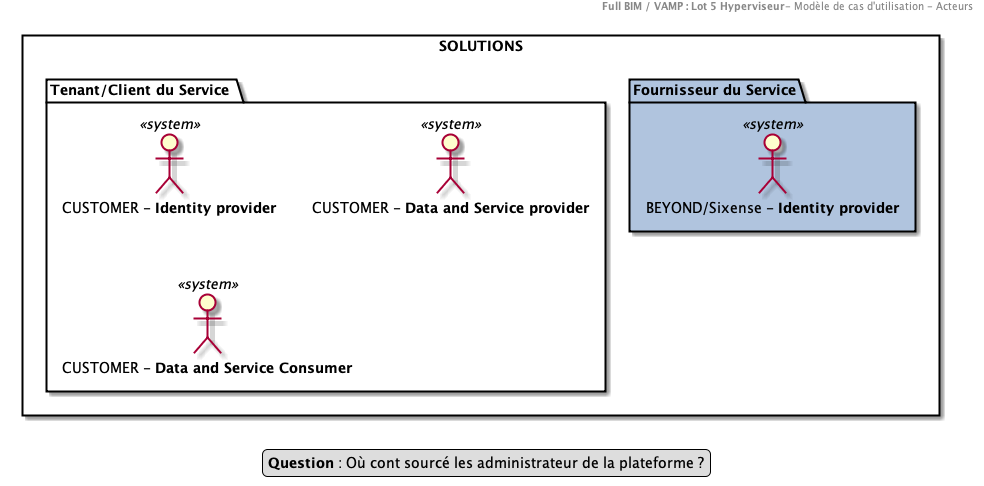
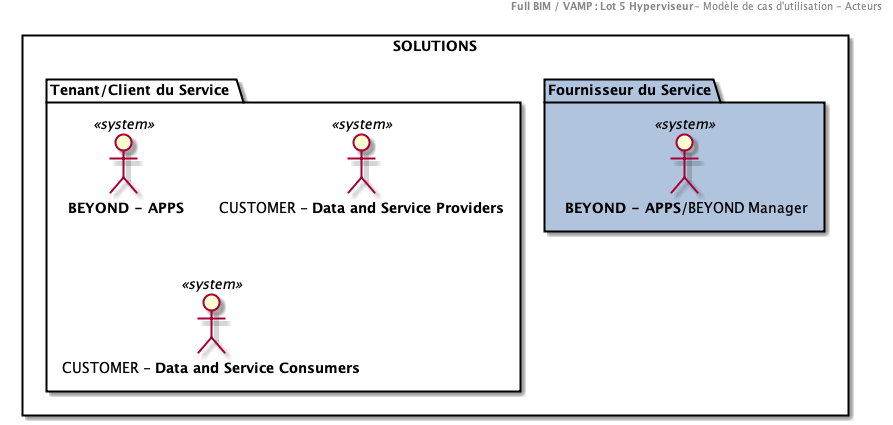
Updates here and there

Changed region(s): [[0.0, 0.0612, 0.9675, 1.0], [0.5745, 0.0, 0.9978, 0.0306]]

diff --git a/01.byd-DataFactory/1.ArchitectureDossier/0200.UseCaseModel.md b/01.byd-DataFactory/1.ArchitectureDossier/0200.UseCaseModel.md
@@ -39,82 +39,168 @@ On parle de **profil** 'utilisateur' pouvant agréger un ensemble de **permissio
 
 #### Administrateur technique (HUMAIN)
 
-**Rôle** : Assure le paramétrage du SYSTEME pour les paramètres non accessibles des "Tenants". Par exemple, la configuration des premiers paramètres d'un compte  (administrateur, Définition du tenant). Il assure le paramétrage et le suivi technique du système
+**Rôle** : Assure le paramétrage du SYSTEME pour les paramètres non accessibles des "Tenants". 
 **Responsabilités** :
 
-- **Active/Désactive** le "Tenant"
-- **Configure** les Administrateurs "Utilisateurs" du "tenant"
--   **Consulte** les journaux techniques de la plateforme
+- **Configure** les paramètres du systèmes (Par exemple eligibilité des fichiers entrants)
+- **Consulte** les journaux techniques de la plateforme
 
-
->Remarque : La description du rôle et des responsabilités des acteurs du produit (les entités clientes ou "Tenant") devra être reprise de/consultée depuis  la description des "Users stories" dans JIRA
 
 ### Niveau "TENANT"
 
-### Administrateur 'Métier' (HUMAIN)
+#### Administrateur 'Métier' (HUMAIN)
 
-**Rôle** : voir User Stories
+**Rôle** : Assure le paramétrage du SYSTEME pour personnaliser l'espace dédié au "Tenants". 
+**Responsabilités** :
 
-**Responsabilités** : voir User Stories
+#### Utilisateur anonyme (HUMAIN)
+
+**Rôle** : Utilisateur non authentifié accedant le **SYSTEME**
+
+**Responsabilités** : N/A
+
+#### BEYOND - APPS / BEYOND Manager
+
+**Rôle** : BEYOND Manager est une application offrant l'ensemble des services transverses de la plateforme aux BEYOND Apps
+
+**Responsabilités** :
+
+- Service d'authentification des utilisateurs
+- Service d'identification de haut niveaudes utilisateurs
+- Service de tracabilité : Collecte des évènements de la plateforme
+
+#### BEYOND - APPS
+
+**Rôle** : Les BEYOND Apps sont les premières consommatrices des données du **SYSTEME**. Par exemple, **BEYOND Reality** est une consommatrice des données 3D exposé par le **SYSTEME**
+
+**Responsabilités** :
+
+#### CUSTOMER - Data and Service Providers
+
+**Rôle** : Fournisseurs de données externes au **SYSTEME**
+
+**Responsabilités** :
+
+#### CUSTOMER - Data and Service Consumers
+
+**Rôle** :Consommateurs de données externes au **SYSTEME**
+
+**Responsabilités** :
 
 
-### Administrateur "Utilisateurs" (HUMAIN)
 
-**Rôle** : voir User Stories
+---
+# Use Case Diagrams
 
-**Responsabilités** : voir User Stories
+> The content filled here has been put only for illustration and to prpose a structure for the work product.
+> It has to be contextualized to the project.
+> All diagrams have been done relying on the modeling tool PLANTUML
 
-### Technicien (HUMAIN)
+## Actors
 
-**Rôle** : voir User Stories
+The different actors can be split into 2 categories:
 
-**Responsabilités** : voir User Stories
+-   **System actors:** Services or applications
+-   **Human actors:** End users of the platform  
 
-### Superviseur (HUMAIN)
+The human actors can be categorized in 3 populations, each one embracing different permissions
 
-**Rôle** : voir User Stories
+-   The **anonymous** users of the platform (not allowed in this use cases)
+-   The **administration team** of the platform
+-   The **Business** in charge of the definition of the Business rules
 
-**Responsabilités** : voir User Stories
+![Actors](./images/0201.Actors.png)
 
-### Direction (régionale) (HUMAIN)
+| Actors                 | Type   |
+| ---------------------- | ------ |
+| **EXTERNAL ACTOR #1**  | HUMAN  |
+| **EXTERNAL ACTOR #2**  | HUMAN  |
+| **EXTERNAL SYSTEM #1** | SYSTEM |
+| **EXTERNAL SYSTEM #2** | SYSTEM |
 
-**Rôle** : voir User Stories
+### EXTERNAL ACTOR #1 (HUMAN)
 
-**Responsabilités** : voir User Stories
+**Role:** Shall configure the **SYSTEM**, especially in term of process orchestration among  engines .....
 
-### Utilisateur anonyme (HUMAIN)
+**Responsibilities:**
 
-**Rôle** : voir User Stories
+-   **Do** this ....
+-   **Do** that ....
 
-**Responsabilités** : voir User Stories
+### EXTERNAL ACTOR #2 (HUMAN)
 
+**Role:** Shall.....
 
-### FULLBIM - LOT #2 **Gestion du Patrimoine**  (SOLUTION)
+**Responsibilities:**
 
-**Rôle** : voir User Stories
+-   **Do** this ....
+-   **Do** that ....
 
-**Responsabilités** : voir User Stories
+### EXTERNAL SYSTEM #1 (SYSTEM)
 
-### FULLBIM - LOT #3 **Gestion de la maintenance (GMAO)** (SOLUTION)
+**Role:** Shall.....
 
-**Rôle** : voir User Stories
+**Responsibilities:**
 
-**Responsabilités** : voir User Stories
+-   **Do** this ....
+-   **Do** that ....
 
-### FULLBIM - LOT #4 **Système d'information géographique (SIG)** (SOLUTION)
+### EXTERNAL SYSTEM #2 (SYSTEM)
 
-**Rôle** : voir User Stories
+**Role:** Shall.....
 
-**Responsabilités** : voir User Stories
+**Responsibilities:**
 
-### VINCI Autoroutes - **Identity provider** (SOLUTION)
+-   **Do** this ....
+-   **Do** that ....
+-   
 
-**Rôle** : voir User Stories
+_Remark : Technical roles are not considered here (Platform/System Administration…)_
 
-**Responsabilités** : voir User Stories
+![Ucases](./images/0202.UCase.png)
 
-### VINCI Autoroutes - **Analyse des données** (SOLUTION)
+## UC - CONFIGURE Component
 
-**Rôle** : voir User Stories
+### ACTOR
 
-**Responsabilités** : voir User Stories
+-   EXTERNAL ACTOR #1
+
+### PRE-CONDITIONS
+
+-   The ACTOR has triggered the service
+-   The VALUES passed are compliant with the schema of engines....
+
+### TRIGGER
+
+API Call
+
+### DESCRIPTION
+
+-   **STEP 01** The compliance of the VALUES provided in the payload are assessed with the service JSON Schema. Compliance is reached.
+
+-   **STEP 02** XXXXXXX
+
+### POST-CONDITIONS
+
+Overall Eligibility is returned to the ACTOR
+
+### ALTERNATIVES
+
+_Alternative #1_: This is a variation #1
+
+-   **STEP 01.A**:  
+
+-   **STEP 02.A**:  
+-   **STEP 03.A**:  
+
+### Wireframe
+
+> The following screen is intended only for helping the understanding of the use case and orientation for implementation
+
+ ![Wireframe](./images/0203.screens_orientations.png)\|
+
+* * *
+
+Architecture Dossier - Markdown Template - March 2018
+
+< [System Context](./0100.SystemContext.md) \| [Table of content](./0001.TableOfContent.md) \| [Requirements](./0300.Requirements.md) >

diff --git a/01.byd-DataFactory/3.DecisionDossier/001.DecisionsDossier-SelectionLanguageBack.md b/01.byd-DataFactory/3.DecisionDossier/001.DecisionsDossier-SelectionLanguageBack.md
@@ -4,9 +4,13 @@
 
 |Identifiant|Décision |Domaine|Date de la décision|Comité|
 |---|---|---|---|---|
-|**DEV-001**|Choix du langage de programmation pour les microservices |Stratégie d'implémentation des fonctions "métier"|**2019-07-09**|Direction Technique (XXX)|
+|**DEV-001**|Choix du langage de programmation pour les microservices/services "Backend" : **JAVASCRIPT** |Stratégie d'implémentation des fonctions "métier"|**2019-07-09**|Direction Technique |
+
+Remarque : La recommandation émise autour du **Typescript** n'est pas retenu.
 
 ### Enjeux
+
+Définition de la norme d'implémentation pour l'ensemble des apps BEYOND concernant les services Backend , les microservices.
 
 ### Hypothèses
   
@@ -60,7 +64,7 @@ Alternative 01 - **TypeScript**
 
 ### Justification
 
-Nous pensons que l’alternative 01– TypeScript est la plus adaptée. L’apport du typage permet dans les applications d’améliorer la lisibilité, la compréhension et la sécurité du code. Il permet également de détecter les erreurs au plus tôt grâce à une phase de compilation là où Javascript ne le gère pas. 
+Nous pensons que l’alternative 01– TypeScript est la plus adaptée. L’apport du typage permet dans les applications d’améliorer la lisibilité, la compréhension et la sécurité du code. Il permet également de détecter les erreurs au plus tôt grâce à une phase de compilation là où Javascript ne le gère pas.
 
 ### Implications
 

diff --git a/01.byd-DataFactory/1.ArchitectureDossier/0002.Glossary.md b/01.byd-DataFactory/1.ArchitectureDossier/0002.Glossary.md
@@ -6,7 +6,6 @@ La liste des acronymes utilisés dans le dossier d'architecture est :
 
 | ACRONYMES | DEFINITION|
 | --- | --- |
-| **GED**   | Gestion Electronique de Documents|
 | **API**   | Application Programming Interface|
 | **REST**  | Representational State Transfer|
 | **SGBD**  | Système de Gestion de Base de Données|
